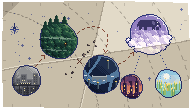
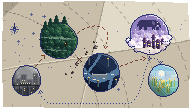
Update

diff --git a/云/tools/paper_map_art.py b/云/tools/paper_map_art.py
@@ -5,8 +5,9 @@
 正面（drawing_closeup.png，妹妹画的大象）不动。
 
 - 纸 = 正面那张纸左右镜像（elephant_drawing_art.paper()），折痕、折角、深浅都在一个位置；颜料乘纸色，折痕从星球上穿过去。
-- 六处：母星（灰色鸽子笼 + 高架列车）→ 森林星（一层层树冠、雾带、树屋一点灯）→ 绕开碎石带 → 河流星（月夜水道、石桥、黄灯）
-  → 云层星（云海、云里的大象）→ 分到 芦苇地（亮色湿地、大蒲公英）和 小镇（紫色黄昏、尖塔）。配色取自各章场景。
+- 五颗星：母星（灰色鸽子笼 + 高架列车）→ 森林星（一层层树冠、雾带、树屋一点灯）→ 绕开碎石带 → 河流星（月夜水道、石桥、黄灯）
+  → 云层星（云海、云上的大象，云海里立着小镇的紫色尖塔）→ 分叉点分三路：小镇（就在云层星上）/ 芦苇星（亮色湿地、大蒲公英）/ 沿纸底回母星。
+  11-07 作者：「小镇我以为属于云层星」→ 小镇不再单独成星；「芦苇地为什么不叫 xx 星」→ 芦苇星（占位名，等作者定）。配色取自各章场景。
 - 航线红褐虚线（和驾驶舱里那张小航图 cockpit_map 同色）；被碎石封住的旧航线是铅笔细线，打了个叉（飞行一「旧航线中断」）。
 - 地名不画进图里，由 paper_view.gd 用游戏字体叠上去（中英文跟设置走），坐标见 LABELS（和 paper_view.gd 的 BACK_LABELS 保持一致）。
 
@@ -40,22 +41,24 @@ ROUTE_D = (92, 48, 38)
 PENCIL = (136, 128, 116)
 REF = np.array([206.0, 197.0, 178.0])    # 颜料「乘纸色」的基准：纸的中间一档，浅的一片颜料亮一点，暗的一片暗一点
 
-# 星球：cx, cy, r
+# 星球：cx, cy, r（11-07 作者：小镇在云层星上，不单独成星；芦苇地是一颗独立的星）
 HOME = (26, 80, 15)
 FOREST = (58, 40, 19)
-RIVER = (101, 74, 19)
+RIVER = (101, 72, 19)
 CLOUD = (149, 34, 20)
-TOWN = (131, 86, 12)
-REED = (168, 83, 14)
+REED = (163, 80, 16)
+FORK = (149, 58)             # 云层星底下的分叉点：小镇（就在云层星上）/ 芦苇星 / 回母星
+TOWN_TAG = (179, 41)         # 「小镇」地名：在云层星右边，一条短点线引到云上的尖塔
 
 # 地名（paper_view.gd 的 BACK_LABELS 同步）：中心 x、上沿 y，纸上坐标（游戏里 ×2）
+# 「芦苇星」是占位名，等作者定了再换字
 LABELS = [
     ("母星", "Home", 26, 97),
     ("森林星", "Forest", 58, 3),
-    ("河流星", "River", 101, 95),
+    ("河流星", "River", 101, 93),
     ("云层星", "Clouds", 149, 5),
-    ("小镇", "Town", 131, 99),
-    ("芦苇地", "Reeds", 168, 98),
+    ("小镇", "Town", 179, 37),
+    ("芦苇星", "Reeds", 163, 98),
 ]
 
 
@@ -367,7 +370,9 @@ def draw_cloud(cv):
         cv.px(x_, y_, (128, 118, 160))
     # 云海：一排排云团，后面紫、前面亮奶油，迎光面高光
     cl = [(124, 106, 162), (160, 142, 186), (200, 184, 208), (234, 222, 222), (252, 246, 232)]
-    for yy, base, spread in ((cy - 1, 0.2, 5), (cy + 3, 0.36, 6), (cy + 7, 0.52, 7), (cy + 12, 0.68, 7), (cy + 18, 0.82, 8)):
+    for row, (yy, base, spread) in enumerate(((cy - 1, 0.2, 5), (cy + 3, 0.36, 6), (cy + 7, 0.52, 7), (cy + 12, 0.68, 7), (cy + 18, 0.82, 8))):
+        if row == 4:
+            draw_cloud_town(cv)                                # 小镇立在云海里：最前一排云盖住塔脚
         x = cx - r - 3 + rng.integers(0, 4)
         while x < cx + r + 4:
             rr = rng.integers(3, spread)
@@ -436,43 +441,47 @@ def draw_reed(cv):
                 c = (112, 176, 224) if d > 20 else (196, 226, 244) if (dx - 1) ** 2 + (dy + 1) ** 2 > 9 else (252, 252, 246)
                 cv.px(sx + dx, sy + dy, c)
     cv.px(sx, sy + 1, (246, 214, 120))
-    finish_disc(cv, mask, cx, cy, r)
-
-
-def draw_town(cv):
-    cx, cy, r = TOWN
-    mask = disc_mask(cx, cy, r, 17)
-    cv.clip = mask
+    # 是一颗星，不是一扇窗：背光那半边压暗（和别的星球一样月光从右上来），档间棋盘格
     ys, xs = np.nonzero(mask)
-    pal = [(62, 44, 94), (98, 62, 110), (150, 84, 112), (214, 124, 100), (244, 176, 116)]
-    for y, x in zip(ys, xs):                                   # 紫色黄昏，地平线发橙
-        cv.px(x, y, ramp_px(pal, (y - (cy - r)) / (1.5 * r), x, y))
-    # 三座尖塔：黑紫塔身 + 右沿一道亮 + 红紫尖顶 + 亮窗
-    wall, wall2, roof, roof2, win = (40, 28, 62), (92, 66, 104), (48, 28, 62), (116, 66, 100), (252, 214, 118)
-    for dx, base, w, top in ((-8, 7, 4, -3), (-1, 7, 3, 1), (4, 7, 4, -5)):
+    for y, x in zip(ys, xs):
+        l = lit(cx, cy, r, x, y)
+        f = 1.0
+        if l < -0.62 or (l < -0.48 and (x + y) % 2 == 0):
+            f = 0.66
+        elif l < -0.28 or (l < -0.14 and (x + y) % 2 == 0):
+            f = 0.82
+        cv.rgb[y, x] *= f
+    finish_disc(cv, mask, cx, cy, r, rim=(250, 252, 236))
+
+
+def draw_cloud_town(cv):
+    """云层星上的小镇（art/cloud_town 那种）：紫色尖塔、木筋小楼立在云上，亮着几扇黄窗，塔尖一点金。"""
+    cx, cy, _ = CLOUD
+    wall, wall2, roof, roof2 = (54, 40, 76), (96, 74, 112), (66, 44, 86), (118, 82, 122)
+    win, tip = (252, 214, 118), (214, 170, 110)
+    base = cy + 14
+    # (dx, 宽, 塔身高, 类型)  spire = 细塔 + 尖顶；house = 两层小楼 + 人字顶
+    for dx, w, h, kind in ((-6, 3, 7, "spire"), (-2, 4, 5, "house"), (3, 3, 10, "spire"), (7, 4, 6, "house"), (12, 3, 6, "spire")):
         x = cx + dx
-        y0 = cy + top
-        cv.rect(x, y0, w, base - top + 1, wall)
-        cv.rect(x + w - 1, y0, 1, base - top + 1, wall2)
-        h = 6
-        for i in range(h):                                     # 尖顶：往上收成一个点
-            hw = (w + 2) * (h - i) / (2.0 * h)
-            xa, xb = x + w / 2.0 - hw, x + w / 2.0 + hw
-            for xx in range(int(round(xa)), int(round(xb))):
-                cv.px(xx, y0 - h + i + 1 - 1, roof2 if xx >= x + w / 2.0 else roof)
-        cv.rect(x + 1, y0 + 2, 1, 2, win)
-        if base - top > 7:
-            cv.px(x + 1, y0 + 6, win)
-    # 紫色树丛和地面
-    rng = np.random.default_rng(51)
-    for x in range(cx - r, cx + r + 1, 3):
-        cv.blob(x + rng.integers(-1, 2), cy + 8 + rng.integers(0, 2), rng.integers(2, 4), (58, 30, 72))
-    for x in range(cx - r + 1, cx + r, 4):
-        cv.px(x, cy + 6, (124, 70, 120))
-    cv.rect(cx - r, cy + 10, 2 * r + 1, r, (38, 20, 50))
-    for x in (cx - 5, cx + 2, cx + 7):                         # 路灯
-        cv.px(x, cy + 9, win)
-    finish_disc(cv, mask, cx, cy, r, rim=(236, 170, 130))
+        y0 = base - h
+        cv.rect(x, y0, w, h + 1, wall)
+        cv.rect(x + w - 1, y0, 1, h + 1, wall2)
+        if kind == "spire":
+            m = x + 1                                          # 塔身 3 格宽，尖顶 1/3/3/5 往下放宽，顶上一点金
+            for i, hw in enumerate((0, 1, 1, 2)):
+                for xx in range(m - hw, m + hw + 1):
+                    cv.px(xx, y0 - 4 + i, roof2 if xx > m or (xx == m and i == 0) else roof)
+            cv.px(m, y0 - 5, tip)
+            cv.px(m, y0 + 2, win)
+        else:
+            for i in range(3):                                 # 人字顶
+                xa, xb = x + 1 - i, x + w - 2 + i
+                for xx in range(xa, xb + 1):
+                    cv.px(xx, y0 - 3 + i, roof2 if xx >= x + w / 2.0 else roof)
+            cv.px(x + 1, y0 + 1, win)
+            cv.px(x + 2, y0 + 1, win)
+            if h > 5:
+                cv.px(x + 1, y0 + 3, win)
 
 
 def draw_chart(cv):
@@ -495,12 +504,14 @@ def draw_chart(cv):
 def draw_stars(cv):
     rng = np.random.default_rng(61)
     keep = np.ones((H, W), bool)
-    for (cx, cy, r) in (HOME, FOREST, RIVER, CLOUD, TOWN, REED):
+    for (cx, cy, r) in (HOME, FOREST, RIVER, CLOUD, REED):
         ys, xs = np.ogrid[:H, :W]
         keep &= (xs - cx) ** 2 + (ys - cy) ** 2 > (r + 5) ** 2
     for row in LABELS:
         keep[max(0, row[3] - 2):row[3] + 10, max(0, row[2] - 26):row[2] + 26] = False
-    keep[50:74, 120:182] = False                                # 云层星往下的点线一带
+    for pts in route_paths().values():                          # 航线两边各让 4 格
+        for x, y in pts:
+            keep[max(0, y - 4):y + 5, max(0, x - 4):x + 5] = False
     ys, xs = np.ogrid[:H, :W]
     keep &= np.abs((xs - 67) * 36 + (ys - 76) * 28) / math.hypot(36, 28) > 9      # 碎石带一条
     n = 0
@@ -567,7 +578,7 @@ def rock(cv, x, y, r):
         cv.px(x + dx, y + dy, c)
 
 
-XMARK = (79, 61)
+XMARK = (79, 59)
 
 
 def draw_debris(cv):
@@ -586,28 +597,56 @@ def draw_debris(cv):
         t += rng.uniform(0.035, 0.07)
 
 
+def route_paths():
+    """所有航线的像素路径（画线和让星星都用这一份）。"""
+    fx, fy = FORK
+    home_back = (bezier((fx - 1, fy + 2), (140, 80), (142, 103), (124, 103))
+                 + line_pts(123, 103, 54, 103)
+                 + bezier((53, 103), (45, 103), (42, 98), (40, 92)))
+    return {
+        "home_forest": bezier((35, 66), (37, 63), (39, 61), (41, 58)),
+        "old1": bezier((70, 54), (72, 55), (74, 56), (75, 57)),
+        "old2": bezier((83, 61), (83, 61), (84, 62), (84, 62)),
+        "detour": bezier((77, 33), (92, 20), (113, 24), (106, 43)),
+        "river_fork": bezier((120, 66), (128, 63), (135, 60), (141, 59)),
+        "town": line_pts(fx, fy - 2, fx, fy - 9),
+        "town_tag": line_pts(169, TOWN_TAG[1], 163, TOWN_TAG[1]),
+        "reed": bezier((fx + 2, fy), (156, 58), (159, 59), (160, 61)),
+        "home_back": home_back,
+    }
+
+
 def draw_routes(cv):
+    rp = route_paths()
     # 母星 → 森林星
-    dash(cv, bezier((35, 66), (37, 63), (39, 61), (41, 58)), ROUTE)
+    dash(cv, rp["home_forest"], ROUTE)
     arrow(cv, 44, 55, 1, -1, ROUTE)
     # 旧航线：铅笔细线穿过碎石带，打叉
-    dash(cv, bezier((70, 56), (72, 58), (74, 59), (75, 59)), PENCIL, 2, 1, 0.95)
-    dash(cv, bezier((83, 63), (84, 64), (85, 65), (86, 66)), PENCIL, 2, 1, 0.6)
+    dash(cv, rp["old1"], PENCIL, 2, 1, 0.95)
+    dash(cv, rp["old2"], PENCIL, 2, 1, 0.6)
     for i in range(-2, 3):
         cv.px(XMARK[0] + i, XMARK[1] + i, ROUTE_D)
         cv.px(XMARK[0] + i, XMARK[1] - i, ROUTE_D)
     # 绕路：从森林星右上出来，翻过碎石带顶上，再下到河流星
-    dash(cv, bezier((77, 33), (92, 20), (113, 26), (106, 47)), ROUTE)
-    arrow(cv, 105, 52, -0.15, 1, ROUTE)
-    # 河流星 → 云层星
-    dash(cv, bezier((118, 64), (123, 62), (127, 60), (129, 56)), ROUTE)
-    arrow(cv, 133, 52, 0.7, -1, ROUTE)
-    # 云层星往下分两处：细墨点线
-    for a, b in (((139, 56), (134, 72)), ((160, 55), (166, 67))):
-        pts = line_pts(*a, *b)
-        for i, (x, y) in enumerate(pts):
-            if i % 3 == 0:
-                cv.px(x, y, INK)
+    dash(cv, rp["detour"], ROUTE)
+    arrow(cv, 105, 48, -0.15, 1, ROUTE)
+    # 河流星 → 云层星底下的分叉点
+    dash(cv, rp["river_fork"], ROUTE)
+    arrow(cv, 145, 58, 1, -0.15, ROUTE)
+
+
+def draw_branches(cv):
+    """分叉点分三路（细墨点线）：往上进云层星的小镇；往右下芦苇星；往下沿纸底回母星。画在星球之后，压在云上。"""
+    rp = route_paths()
+    fx, fy = FORK
+    for dx, dy in ((1, 0), (-1, 0), (0, 1), (0, -1)):        # 分叉点：一个小墨圈
+        cv.px(fx + dx, fy + dy, INK_D)
+    for key, step in (("town", 2), ("reed", 3), ("home_back", 3), ("town_tag", 2)):
+        for i, (x, y) in enumerate(rp[key]):
+            if i % step == 0:
+                cv.px(x, y, INK_D if key in ("town", "town_tag") else INK)
+    arrow(cv, 160, 63, 0.1, 1, INK)
+    arrow(cv, 40, 90, -0.15, -1, INK)
 
 
 def build():
@@ -621,10 +660,10 @@ def build():
     draw_home(cv)
     draw_river(cv)
     draw_cloud(cv)
-    draw_town(cv)
     draw_reed(cv)
     draw_forest(cv)
     cv.clip = None
+    draw_branches(cv)
     draw_compass(cv, 14, 29)
     img = cv.image()
     img.save(OUT)

diff --git a/云/tools/cockpit_final_art.py b/云/tools/cockpit_final_art.py
@@ -1218,13 +1218,25 @@ def travel_map():
         c.line(x0, y0, x1, y1, col)
         if pressed:
             c.line(x0 + 1, y0, x1 + 1, y1, "#5a3228")
-        # 航线上的星球（大图 art/forest_story/paper_map.png 的缩小版，tools/paper_map_art.py）：母星灰、森林绿、河流深蓝、云层紫，云层旁边一点芦苇黄
+        # 航线上的星球（大图 art/forest_story/paper_map.png 的缩小版，tools/paper_map_art.py）：母星灰、森林绿、河流深蓝、云层紫
         for t, col, big in ((0.02, "#5c5e62", False), (0.34, "#3e5e48", True), (0.66, "#32466a", True), (1.0, "#7a6a92", True)):
             px_, py_ = int(round(x0 + (x1 - x0) * t)), int(round(y0 + (y1 - y0) * t))
             c.px(px_, py_, col)
             for dx, dy in ((0, -1), (1, 0), (0, 1), (-1, 0)) if big else ((1, 0), (0, -1), (1, -1)):
                 c.px(px_ + dx, py_ + dy, col)
-        c.px(x1 - 1, y1 + 3, "#8e9456")
+        # 11-07：云层星顶上一格深紫 = 上面的小镇（不单独成星）；云层星往下分三路：
+        # 右下一颗芦苇星（黄绿），往下再沿纸底一路墨点回母星
+        ink = "#3a466c"
+        c.px(x1, y1 - 1, "#463858")
+        c.px(x1 + 1, y1 + 2, ink)
+        rx, ry = x1 + 1, y1 + 5
+        for dx, dy in ((0, 0), (0, -1), (1, 0), (0, 1), (-1, 0)):
+            c.px(rx + dx, ry + dy, "#8e9456")
+        c.px(rx + 1, ry - 1, "#b4b878")
+        for y in range(y1 + 3, y0 + 1, 2):
+            c.px(x1 - 2, y, ink)
+        for x in range(x1 - 4, x0, -2):
+            c.px(x, y0 + 1, ink)
 
     c = frame(W_, H_)
     sheet(c, 0, 3, 13, False)

diff --git a/云/docs/夜测_11-05_汇总.md b/云/docs/夜测_11-05_汇总.md
@@ -132,6 +132,8 @@
 - **设置面板「返回标题」（已加，ch1-fx）**：`level_forest._build_settings` 在「制作人员」旁边加按钮（中英文走 i18n `back_to_title`），标题界面不显示。点了：设置仍是暂停，整屏 0.8 秒淡到黑，配乐 4 秒淡出，开始界面的风同时淡进来（根节点上临时一个，换场景不断），被暂停住的音效音量悄悄收掉再取消暂停（`audio_fade.silence`，否则取消暂停会冒一下），然后走和全剧终一样的 `title_after_credits` → 标题从黑里淡出。开始界面没有配乐，「标题音乐」就是这个风。`tools/qa_audio.gd` 加了 `--back_title_at=秒`（暂停时被停住的声音不再算硬停）。测试时抓到一个会卡死的问题：晨正在走路时换场景，`_chen_walk` 的 `StoryState.frame(get_tree())` 拿到空的 tree，原地空转，游戏卡住。改成 `frame` 遇到空 tree 也等一帧，并且一直暂停到新场景才取消。森林、河流（两个时间点）、终章各中途点一次：hard_start / hard_stop / jump / gap 全 0，脚本错误 0，回到标题后按钮藏起来；河流点完（英文）再自动开始一局能正常往下走。没有存档，点了这一局就没了，目前没有二次确认。只看了数据，没看过按钮的样子。
 - **背包里大象的照片随时能「查看」（11-07 已改，ch1-fx；作者在河流篇末尾：「为什么我不能查看了啊」）**：原来「查看」只靠森林剧本的 `item_views`（`c1_drawing`，条件 `c1_got_bag` 到 `c1_chase_done` 之间），追逐一结束就关了，河流、飞行一、终章都没有，按钮只剩「使用」，点了是「这附近用不上」那条路。改法：`story_runner.paper_viewable / view_paper`——物品表里带 `back` 的（双面纸，现在只有 `elephant_drawing`）只要剧本 `item_views` 不管，就直接开 `paper_view`：正面大象，A / D 翻到地图（`c1_got_map` 以前只看正面；非森林章节一律能翻），不走 `_mechanic`（不记 `_done`、不动剧情进度），收起后回到背包、还选着照片（和通讯器一样）。`level_forest` 的按钮文字、E / 空格键跟着认。森林追逐以前那次全屏看画 → 闪回没动。`tools/qa_audio.gd` 加了 `--view_paper_at=秒,秒…`（到点后等晨能自由走，开背包、选照片、按右边按钮）。headless 自动玩：森林（64 秒走原来的 c1_drawing，153 / 231 / 333 秒走新的）、飞行一、河流（5 次）、终章（3 次）：按钮都是「查看」，开了、翻到地图、收起、回背包，都走到 STORY_DONE，终章名单放完回标题；脚本错误 0；森林、飞行一、终章 qa_audio 全 0。河流两遍各报 1–2 条 `tools_clink.wav` hard_start（t=164 / 346 / 348，离按「查看」几十秒；完全不按的三遍分别是 0、1、3 条，同一个声音）：是 `story_runner._ambient_step` 对没开循环的 wav 用 `finished → play` 重开的老问题（和 150 行驾驶舱引擎声一样，QA 隔帧采样所以时有时无），不是这次改出来的，没修（`tools_clink.wav` 导入没开循环，市场那段起一直挂着，耳朵里也每几秒一个断口）。只看了数据，没看过画面。
 - **返回标题后耳机提示压在标题上、关不掉（11-07 已改，ch1-fx；作者：「返回标题就不需要显示耳机了吧，而且还消不掉，这是 bug」）**：原因：重新载入后 `_ready` 照常先调 `_enter_headphones()`，它开了一个「等 0.3 秒、1.2 秒把耳机提示淡到 1」的 tween；紧接着 `_title_fade_in()` 只把提示的透明度置 0、状态改成 INTRO，没停那个 tween，于是 0.3 秒后提示又淡出来压在标题上。这时状态已经不是 HEADPHONES，点击和按键都走标题那条路，没有任何东西去收它，所以关不掉（不是输入被按钮层吃了）。全剧终回标题和设置「返回标题」都是这条路，都会出。改法：`_ready` 里带着 `TITLE_FADE_META`（回标题）就不调 `_enter_headphones()`；`_title_fade_in()` 开头先 `_kill_cine()` 停掉所有片头 tween 和排着的事件。启动时第一次进标题那条路一行没动，照常出耳机提示、照常点掉。自测加了 `--title_again`（回到标题后不退出，自动按「开始」再玩一局），`TITLE_AFTER_CREDITS` 多打印耳机提示的透明度。headless：河流 60 秒从设置返回标题、终章放完名单回标题，各自接着自动玩完一整局森林：回标题 1.9 秒和 4 秒后耳机提示透明度都是 0.00，两局 `--qa_live` 叠字 / 出屏 / 卡对话 / softlock 全 0，脚本错误 0，hard_start / hard_stop / jump 0。两次都各报 1 条 0.57 秒 gap（标题的风 → 森林鸟叫，下落那段），就是上次记过的那条：只在回标题后立刻按「开始」时出现（自动玩标题出来 1.2 秒就按），刚启动那局没有，没修。画面没在引擎里看过。
+- **删手机：公共件收尾检查（11-07，ch1-fx）**：作者 merge origin/main 时（BenTooToo 的 forest update）已经删了 `phone_ui.gd`、`phone_state.gd`、`data/phone.json`、`items.json` 的 communicator，`story_runner` / `level_forest` / `story_state` / `story_bark` / `qa_text` 里的引用也一起去掉了；背包「查看」现在只剩剧本 item_views 和双面纸（大象的照片）两种，文字走 i18n `view`。`story_state` 读旧存档时丢掉 communicator（合并里写的）。我只把 `items.json` 开头说明里那句「communicator = 通讯器……见 data/phone.json」改成已删。剩的只在注释 / 文档里（`docs/phone_and_cockpit_contract.md` 的引用、`story_river.json` 开头说明、`tools/story_to_txt.py` 的动作中文名），驾驶舱 `cockpit_phone` 摆件（`art/cockpit/cockpit.json`、`cockpit_room.gd`）没有剧本再让它显示，一直藏着，没删，等作者定。headless：四章 `--story_check` 只有 info，0 错；四章 `qa_audio --story_auto --qa_live --view_paper_at=150` 都到 STORY_DONE（终章名单放完回标题，耳机 0.00），日志里没有任何 phone / communicator 报错，脚本错误 0，背包照片「查看」照常；音频：森林、飞行一、终章全 0，河流 1 条 `tools_clink` 老问题。`--qa_live` 森林 6 条叠字，都不是删手机带出来的：① 奔跑片头 木木 × 本2兔、本2兔 × 梧桐（t 52–53）——合并里 `credits.json` 改成四人依次出、都在镜头右边 40–45 像素、y 112 / 136，前一个散开时下一个已经在聚，两个框叠一下，这是 BenTooToo 这次的改法，没动；② c1_drawing 地图翻出来那一下，新加的成就提示「成就解锁 逃脱」（layer 58）压在地图「云层星」上；③ 自测在拿松脂的「获得」字还没消时开了照片（纸在 layer 40，盖在字上面，看不到）。
+- **耳机提示压在地图（paper_view）上（11-07 已改，ch1-fx）**：作者截图（images/59，06:17）是上一条「返回标题后耳机提示关不掉」修之前的同一个 bug 的后果：回标题后提示停在不透明，状态已经过了 HEADPHONES，再没有东西收它，于是一直挂到新开的一局；提示在 `$Top`（CanvasLayer 50），比纸（40）、背包和设置（UI 20）都高，所以压在地图中间。查了所有入口：`_enter_headphones` 只在 `_ready` 里调；`_hp_root` 的透明度只有它的淡入 tween 会拉到 1。又加了两道：① 耳机提示一次启动只出一次（Engine meta `level_forest_headphones_shown`）；之后的重新载入（换章节、回标题、测试场景回来）进 `_enter_headphones` 时提示直接藏起来，还停在这一段的（F8 之类直接重开森林）黑 0.3 秒自己往下走；② 过了耳机那一段（INTRO 淡出以后）每帧检查，`_hp_root` 整个 `visible = false`，不管哪条路残留了透明度或 tween 都冒不出来。另外章节结束卡「按任意键回标题」原来是裸 `reload_current_scene`，会重新过一遍耳机提示，改成和全剧终、设置「返回标题」一样走 `title_after_credits`（标题从黑里淡出）。启动第一次进标题照旧：淡入提示、点击或按键关掉。`qa_audio` 的 `QA_PAPER press` 多打印耳机提示的 visible / 透明度。headless：森林 → 飞行一 → 河流 → 终章 `--story_chain` 连着自动玩，中途开背包查看照片 7 次（森林 2、飞行一 1、河流 3、终章 1），每次耳机提示都是 visible=false / 0.00，终章放完名单回标题 0.00；河流 60 秒设置返回标题再开一局森林、中途查看 2 次，也都是 false / 0.00；脚本错误 0；`--qa_live` 飞行一、河流、终章叠字 0。森林的叠字都和耳机无关：奔跑片头名字（BenTooToo 改的 credits.json，上一条记过）、c1_drawing 成就提示压地图、以及自测在「获得」或旁白字还没消时开照片（纸在 40 层盖着字，看不到，QA 不认层）。音频：连播在飞行一 → 河流换章那一刻 3 条 `fire_flare.wav` hard_stop（2 秒的音效放到 1.8 秒被换场景掐掉，-8 dB，只在连播里有，和这次无关，没修）；回标题再开一局还是那条 0.57 秒 gap。画面没在引擎里看过。
 - **制作人员不能跳、放得更久（已改，ch1-fx）**：`credits_page.gd` 去掉点击 / 任意键跳页；全剧终以后 Esc 也不管用。从标题 / 设置点进来的（菜单页）还留 Esc 退回菜单，否则误点要等 45 秒。每页多停：人名页成形后停 1.8 → 4.0 秒，特别感谢 3.0 → 6.0 秒，感谢游玩 3.6 → 6.3 秒。名单本身 30.0 → 44.5 秒（headless 量的 `CREDITS close`）；算上主题曲比名单早开始的约 7.7 秒，淡到黑开始时曲子放到约 37.7 → 52.2 秒（全曲 55.7 秒，54 秒才收尾），音乐的结尾和标题鸟叫交叉。终章自动玩到回标题：脚本错误 0，黑帧 0；qa_audio：片尾无 gap，没有接到 forest。只看了数据，没听过。
 - **树屋门口「去找永燃之木」不知道要点鹿（已修）**：这一步只有和鹿说话（`c1_deer_go`）才往下走，走去坡地不会推进。`story_forest.json` 加一条目标：出屋后（`c1_side_open`）左上角写「问问鹿永燃之木在哪」，屋里还是「去找永燃之木」；没加台词，「（可选）」那行不动（支线都是真可选，和主线不重复）。headless：`--story_check` 四章 0 错，`--chapter=forest --story_auto --qa_live` 软锁 0、`QA_LIVE_SUMMARY` 全 0，`--chapter=forest --qa_text` total=0。没看过画面。
 - **英文 `sa_pine_catch`「Hold to catch the…」和左上角目标叠字（已修）**：这行不是 `key_prompt`（那行在屏幕下方 y228），是松脂小游戏的按键提示（y15）。量了透明度：目标本来就会淡掉，只是淡出要 0.3 秒，自动玩把面板淡入压到 0.15 秒，提示亮的时候目标还没淡完，交叉约 0.1 秒，之后目标一直是 0。真玩时松脂面板淡入 0.6 秒，碰不上；但大嘴鸟和斜坡的提示是和目标同时开始淡的，真玩也会交叉，只是自动玩不显示这两个提示，QA 量不到。现在 `OL.HintLabel` 开头等目标淡完才亮（最多等 0.5 秒，只等这一次），大嘴鸟和斜坡结束时先收提示再放目标回来。`overlay_layout.gd`、`side_toucan.gd`、`side_slope.gd`，没动剧本和文案。headless 中英文各跑一遍 `--chapter=forest --story_auto --qa_live`：QA_OVERLAP 0、SCRIPT ERROR 0、到 END_CARD。大嘴鸟和斜坡这两处改动只过了解析检查，没看过画面，等实机确认。
@@ -210,6 +212,10 @@
   - 地名不画进图，`paper_view.gd` 翻到背面时用游戏字体叠上去，中英文跟设置走（`BACK_LABELS`，跟着纸一起压扁）。
   - 驾驶舱小航图 `cockpit_map.png`：`tools/cockpit_final_art.py` 的 `travel_map()` 改成航线上四颗小星球 + 一点芦苇黄，`open` / `line_pressed` 都换了；`beside_panel` 是折起来的纸，看不到图面，没变。这个物件只有这三个 state，没有 `corrected`；`corrected` 是 `story_final.json` 尾声里 `forest_map` 这个 prop 的，全项目没有这个 prop 的美术，那一步现在没有画面。
   - 验证：`--import` 后森林、终章 `--story_check` 0 错误（297 / 242 场景）；手改清单里没有这两张，工具写之前会查。预览是 Python 按 paper_view 的位置合成的（`side-session-notes/…/paper_map/`）。**没开窗口看过**：翻面动画里地名跟着压扁、游戏字体的实际位置，要等作者说「去测试」再确认。
+  - **11-07 第二版（作者两条意见）**：①「小镇我以为属于云层星」→ 小镇那颗星删了，改成云层星云海里立着的一排紫色尖塔和木筋小楼（取自 `art/cloud_town`，亮黄窗、塔尖一点金，最前一排云盖住塔脚），右边一条短墨点线引到地名「小镇」。②「芦苇地为什么不叫 xx 星」→ 芦苇地改成一颗独立的星（半径 14 → 16，背光半边压暗、迎光亮边，和别的星一样），地名先写占位「**芦苇星**」（英文 Reeds），作者定了名字只换 `tools/paper_map_art.py` 的 `LABELS` 和 `paper_view.gd` 的 `BACK_LABELS` 两处的字。
+  - 终章三个去处的分叉：河流星的红褐航线改成连到云层星正下方的一个小墨圈（分叉点），从这里分三路细墨点线：往上进云层星（小镇）、往右下到芦苇星、往下沿纸底一路回母星（箭头指进母星）。为了让回母星那条从河流星地名下面过，河流星往上挪了 2 格（地名 y 95 → 93），绕路航线、旧航线的叉跟着挪。
+  - 驾驶舱小航图 `open` / `line_pressed` 同步：云层星顶上一格深紫 = 小镇；右下一颗黄绿芦苇星（原来只是一个像素）；从云层星往下再沿纸底一串墨点回母星。`beside_panel` 不变。
+  - 验证：`--import` 无脚本错误；森林 `--story_check` 0 错误（307 场景），终章 0 错误（178 场景）。预览在 `side-session-notes/…/paper_map/v2_*.png`。**还是没开窗口看过**：翻面时地名的实际位置、「小镇」引线和字对不对得上，等「去测试」时确认。
 - **尾声树屋的声音真空（11-06 已改）**：终章 `qa_audio` 报 1 条 gap，11.35 秒，`forest_birds` → `river_flow`。不是 `epi_miluo` 和 `epi_niff` 两场之间切换的问题，是整段树屋戏都没声音：进屋鸟叫淡到 -60（作者「进入树屋这个音效会淡出」），屋里没有环境声，尾声这时也没配乐（第一章的树屋里有 forest 配乐，所以第一章不报）。11 秒是自动玩的长度，真人玩的话，在屋里待多久就静多久。这条不是最近改出来的：上面「终章 qa_audio 剩的两段真空」那条已经记过，当时留给作者定。改法：`story_final.json` 的 `epi_miluo` 开头放第一章树屋同一首 `forest`（1.5 秒淡入，黑屏之前就起，和鸟叫交叉；试过 3 秒，还会留 0.3 秒真空），`epi_niff` 开头淡出（3 秒，和河水声交叉）。没加文字，鸟叫的规矩没动。headless：`--chapter=final --story_auto` 跑 `qa_audio`：hard_start / hard_stop / jump / bus_jump / gap 全 0，脚本错误 0，到 the_end，名单放完回标题；`--story_check` 只跑在 3 秒那版上，之后只改了淡入秒数。**没验的**：没听过。**留给作者**：尾声的树屋戏现在有配乐，原来这段是静的，听了不喜欢可以换成屋里留一点鸟叫（`_birds_db_for` 给树屋 -30，和落地后的驾驶舱一样），但这样进屋就不算完全淡出了。
 
 - **云层镇居民换成美术姐画的（11-07，作者发来 `dotpict_animation_20261107_130914.gif`）**：结局三那个「居民」`townsfolk` 换图，台词一句没动。这屏只有这一个单独的人（另一个是人群 `crowd`），所以换这个；芦苇地的路过的人、居民和人群不变。
